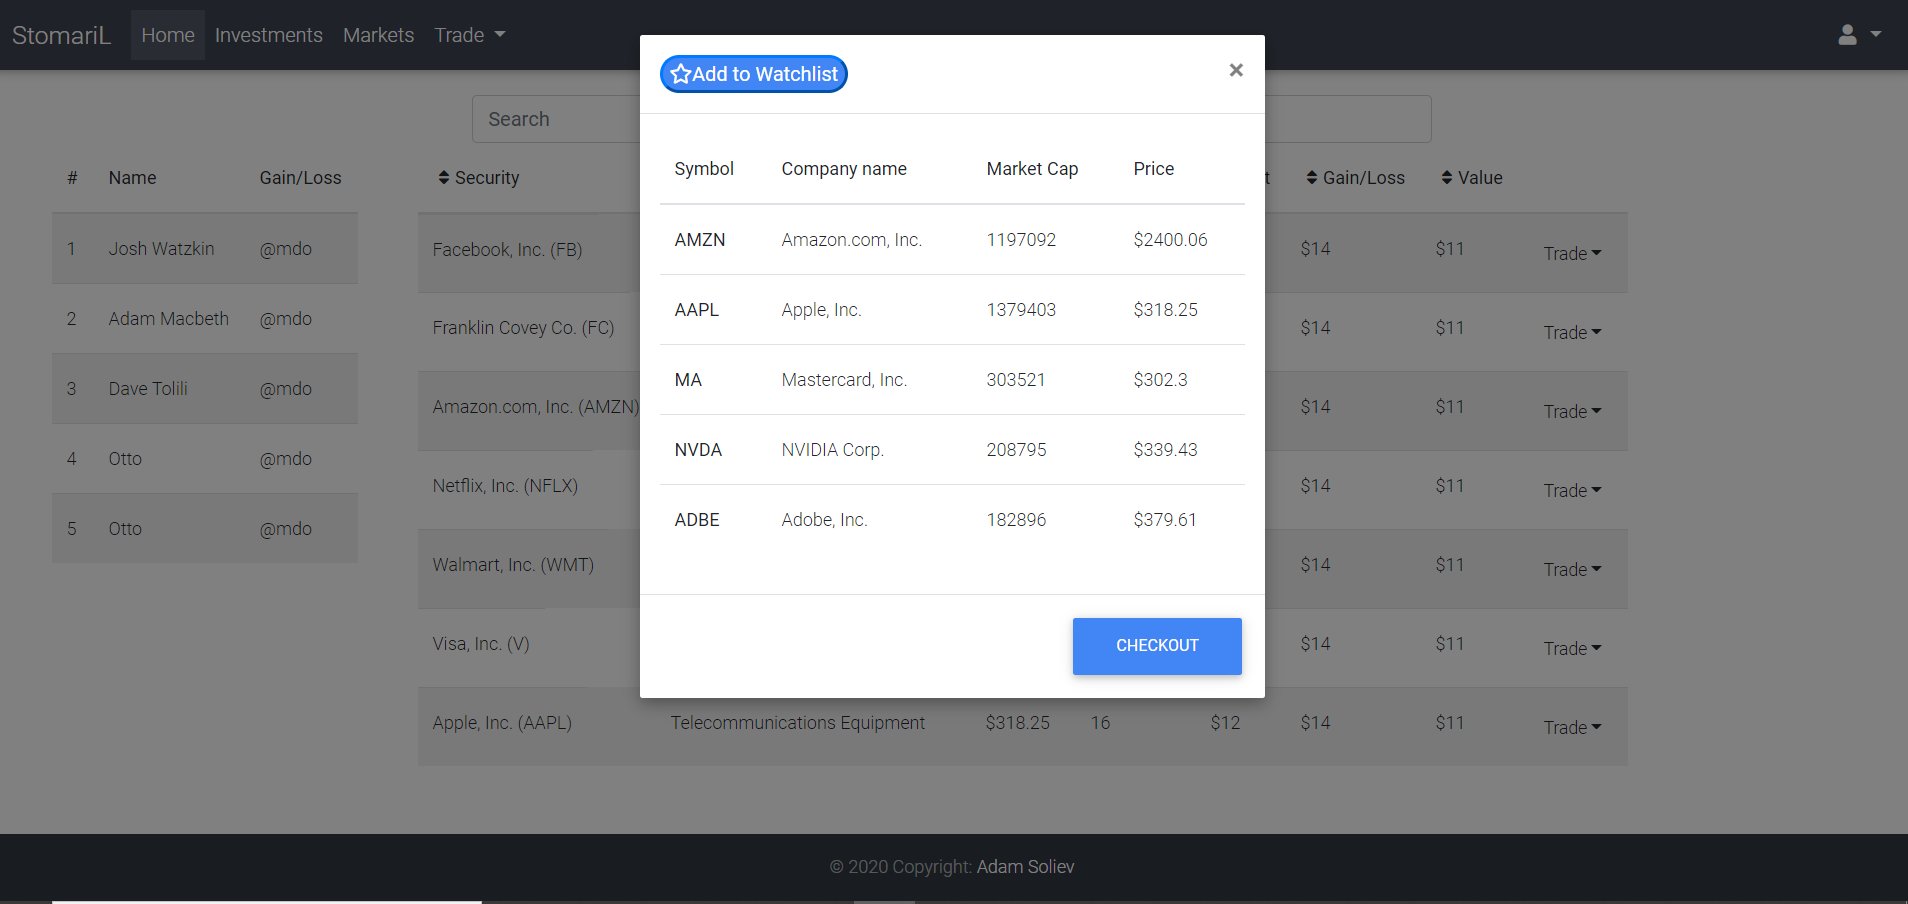
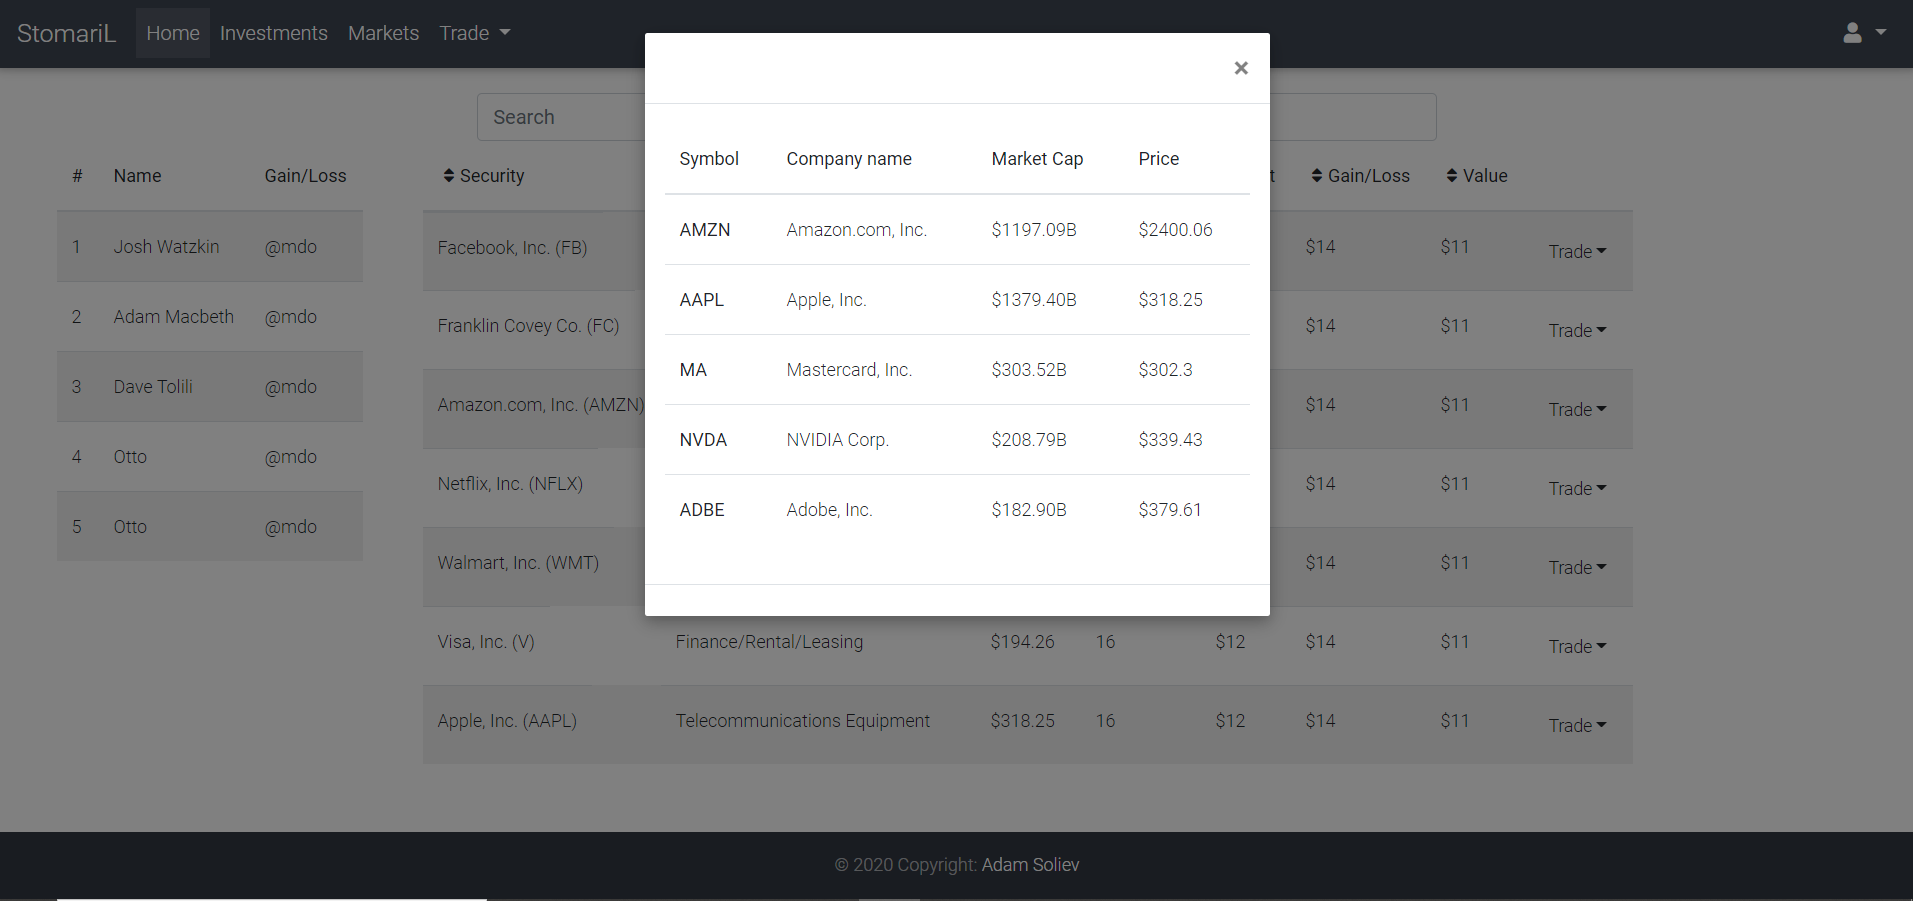
Updated search view and Company model

diff --git a/templates/home.html b/templates/home.html
@@ -19,9 +19,6 @@
       <div class="modal-content">
         <!--Header-->
         <div class="modal-header">
-          <button class="btn-primary rounded-pill"><i class="far
-                      fa-star"></i>Add to
-                        Watchlist</button>
           <button type="button" class="close" data-dismiss="modal" aria-label="Close">
             <span aria-hidden="true">×</span>
           </button>
@@ -200,10 +197,13 @@
           tbody_modal.empty();
           for(var i=0; i<response.length; i++){
             const comp = response[`${i}`]
-            tbody_modal.append('<tr><th scope="row">'+ comp.symbol + '</th><td>'+
-              comp.companyName+ '</td><td>'+ comp.marketCap +'</td><td>$'+ comp
-              .price +'<a><i ' +
-              'class="fasfa-times"></i></a></td></tr>')
+            tbody_modal.append('' +
+              '<tr>' +
+                '<th scope="row">'+ comp.symbol + '</th>' +
+                '<td>'+ comp.companyName+ '</td>' +
+                '<td>$'+ (comp.marketCap/1000).toFixed(2) +'B</td>' +
+                '<td>$'+ comp.price +'</td>' +
+              '</tr>')
           }
           $('#modalSearch').modal('show');
         }
